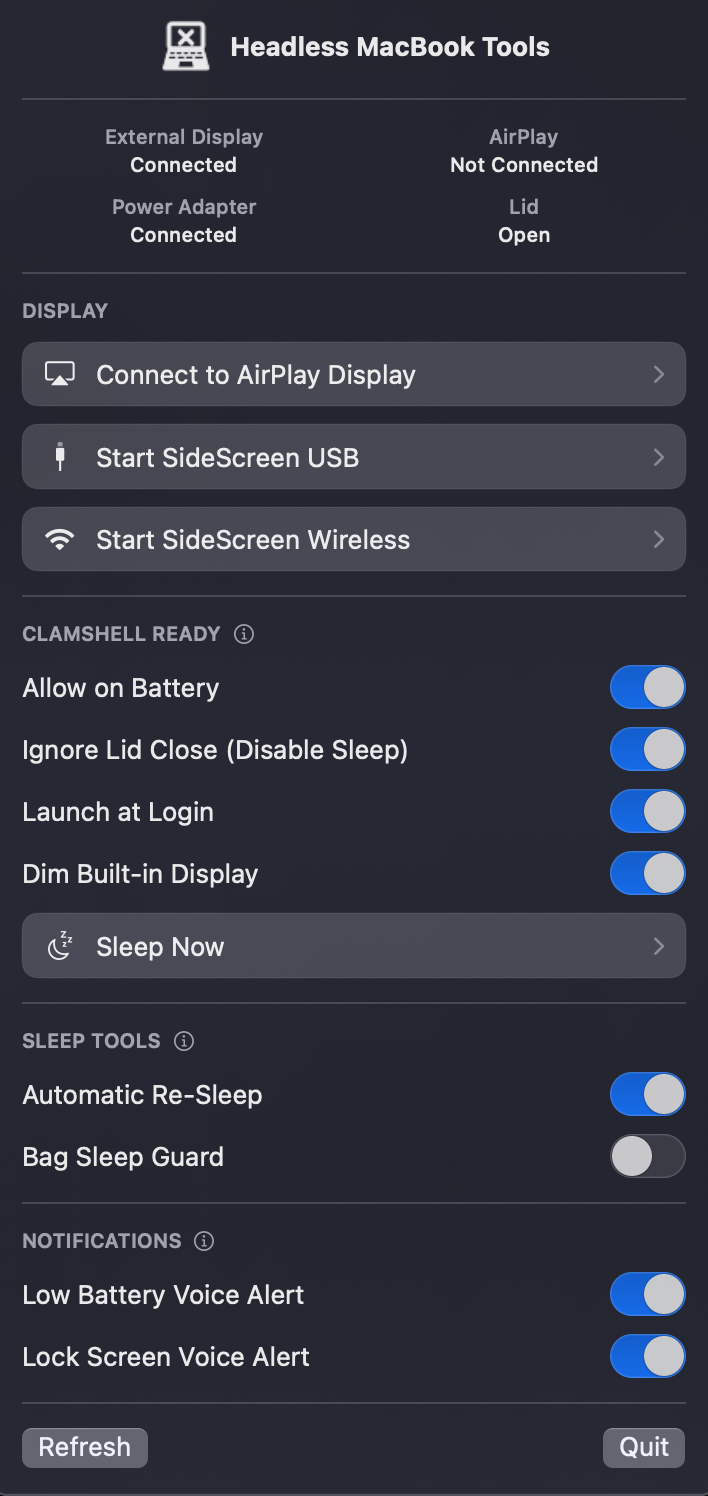
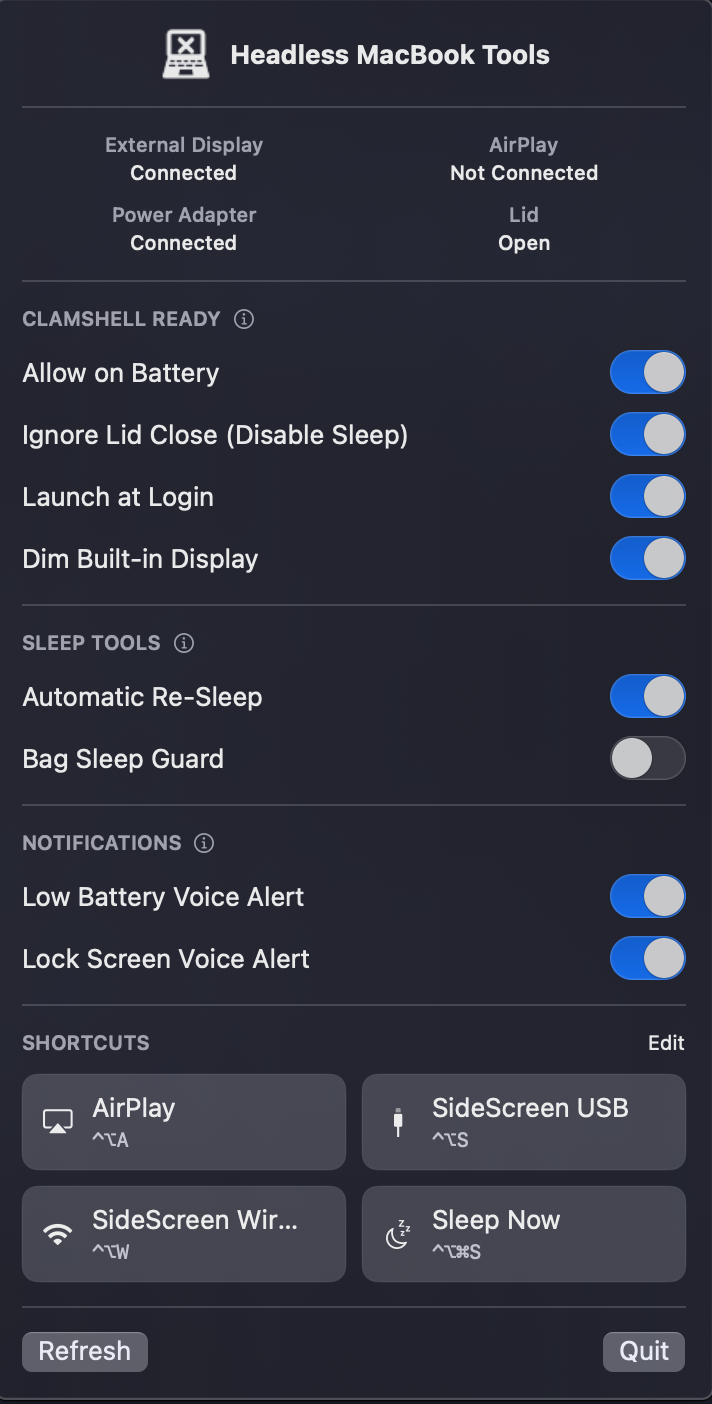
chore: rename app to Headless MacOS Tools

diff --git a/README.md b/README.md
@@ -1,11 +1,11 @@
-# Headless MacBook Tools
+# Headless MacOS Tools
 
 A menu-bar-only macOS utility that collects the headless MacBook workflows in one native SwiftUI app.
 
 ## Preview
 
 <p align="center">
-  <img src="Assets/screenshot.png" alt="Headless MacBook Tools menu" width="354">
+  <img src="Assets/screenshot.png" alt="Headless MacOS Tools menu" width="354">
 </p>
 
 ## Features
@@ -15,7 +15,7 @@ A menu-bar-only macOS utility that collects the headless MacBook workflows in on
 - AirPlay display selection
 - SideScreen USB and wireless launch actions
 - Automatic re-sleep and bag-wake protection
-- Low-battery and lock-screen voice alerts
+- Low-battery and lock-screen voice alerts, plus a login, wake, and unlock sound
 - App Intents for AirPlay and SideScreen actions
 - URL actions: `headlesstools://airplay`, `headlesstools://sidescreen-usb`, and `headlesstools://sidescreen-wireless`
 
@@ -34,7 +34,7 @@ Enabled background tools install their runtime copies under:
 ~/Library/Application Support/Headless MacBook Tools/Agents
 ```
 
-Their source remains in this repository's `Tools/` directory.
+The legacy support-directory name is kept to preserve existing background-tool installations. Their source remains in this repository's `Tools/` directory.
 
 ## Build and run
 
@@ -45,13 +45,22 @@ Requirements: macOS 14+, Apple Silicon, and the Swift toolchain included with th
 ./script/build_and_run.sh --verify
 ```
 
-The staged application is written to `dist/HeadlessMacBookTools.app` and ad-hoc signed.
+The staged application is written to `dist/Headless MacOS Tools.app` and ad-hoc signed.
 
 ## Shortcuts and keyboard shortcuts
 
 The app exposes `Run Headless Tool` through App Intents. Use the Shortcuts app to select the action and assign a keyboard shortcut from the shortcut's Details panel.
 
 App Intents can provide actions and preconfigured App Shortcuts, but macOS keeps the actual keyboard combination as a user-owned Shortcuts preference. The app does not modify that preference programmatically.
+
+Headless MacOS Tools also provides native global keyboard shortcuts that do not depend on the Shortcuts app:
+
+- `Control + Option + A`: Start Auto AirPlay
+- `Control + Option + S`: SideScreen USB
+- `Control + Option + W`: SideScreen Wireless
+- `Control + Option + Command + S`: Sleep Now
+
+The `SHORTCUTS` section runs each action directly. Click `Edit` to record different combinations; changes are stored in the app's preferences. If an existing macOS service or Shortcuts workflow already owns a combination, the app shows a conflict and leaves that global shortcut inactive until a free combination is selected.
 
 ## Permissions
 

diff --git a/Tools/Auto-Airplay/README.md b/Tools/Auto-Airplay/README.md
@@ -1,18 +1,18 @@
 # Auto-Airplay
 
-The AirPlay action used by Headless MacBook Tools.
+The AirPlay action used by Headless MacOS Tools.
 
 It discovers receivers from the macOS Screen Mirroring interface, writes the list to `~/.airplay_devices`, reads receiver names aloud, and accepts a numeric selection in Terminal. The selected receiver is activated through System Events UI automation.
 
 ## Requirements
 
 - An available AirPlay or Screen Mirroring receiver
-- Accessibility and Automation access for Headless MacBook Tools or the Terminal process it opens
+- Accessibility and Automation access for Headless MacOS Tools or the Terminal process it opens
 - macOS system tools including `osascript`, `say`, and `afplay`
 
 ## Entry point
 
-Headless MacBook Tools runs:
+Headless MacOS Tools runs:
 
 ```zsh
 ./run-airplay.sh
@@ -25,4 +25,4 @@ Useful diagnostics:
 ./run-airplay.sh --beep-only
 ```
 
-This directory is bundled under `Contents/Resources/Tools/Auto-Airplay`. It is not a standalone app and should not be duplicated beside Headless MacBook Tools.
+This directory is bundled under `Contents/Resources/Tools/Auto-Airplay`. It is not a standalone app and should not be duplicated beside Headless MacOS Tools.

diff --git a/Tools/Auto-SideScreen-USB/README.md b/Tools/Auto-SideScreen-USB/README.md
@@ -1,6 +1,6 @@
 # SideScreen Launch Tools
 
-USB and wireless SideScreen launch actions used by Headless MacBook Tools.
+USB and wireless SideScreen launch actions used by Headless MacOS Tools.
 
 The preferred path opens SideScreen through its URL scheme. The fallback opens `/Applications/SideScreen.app` and uses UI automation to select USB or wireless mode and press Start.
 
@@ -17,4 +17,4 @@ The preferred path opens SideScreen through its URL scheme. The fallback opens `
 ./SideScreen-wireless.sh
 ```
 
-Headless MacBook Tools invokes these scripts directly from its application bundle. App Intents are the preferred shortcut integration.
+Headless MacOS Tools invokes these scripts directly from its application bundle. App Intents are the preferred shortcut integration.

diff --git a/Tools/Battery Voice Alert/README.md b/Tools/Battery Voice Alert/README.md
@@ -1,6 +1,6 @@
 # Battery Voice Alert
 
-A LaunchAgent managed by Headless MacBook Tools. It checks battery state once per minute and speaks selected low-charge warnings while the Mac is discharging.
+A LaunchAgent managed by Headless MacOS Tools. It checks battery state once per minute and speaks selected low-charge warnings while the Mac is discharging.
 
 Warning levels are 24, 20, 15, 10, 9, 8, 6, 4, 2, and 1 percent. Connecting power resets the last warning.
 
@@ -17,4 +17,4 @@ Manual diagnostics:
 ./BatteryVoiceAlert.command check
 ```
 
-Normal installation and removal should be performed with the Low Battery Voice Alert switch in Headless MacBook Tools.
+Normal installation and removal should be performed with the Low Battery Voice Alert switch in Headless MacOS Tools.

diff --git a/Tools/bag-sleep-guard/README.md b/Tools/bag-sleep-guard/README.md
@@ -1,6 +1,6 @@
 # Bag Sleep Guard
 
-A LaunchAgent managed by Headless MacBook Tools. If the Mac wakes while locked and running on battery, it returns the Mac to sleep when no recent keyboard or trackpad input is detected.
+A LaunchAgent managed by Headless MacOS Tools. If the Mac wakes while locked and running on battery, it returns the Mac to sleep when no recent keyboard or trackpad input is detected.
 
 It does not run after the user has unlocked the session.
 
@@ -16,4 +16,4 @@ Temporary opt-out:
 touch ~/.bag-sleep-guard-off
 ```
 
-Remove the marker to enable the guard again. Normal installation and removal should be performed with the Bag Sleep Guard switch in Headless MacBook Tools.
+Remove the marker to enable the guard again. Normal installation and removal should be performed with the Bag Sleep Guard switch in Headless MacOS Tools.

diff --git a/Tools/headless-auto-resleep/README.md b/Tools/headless-auto-resleep/README.md
@@ -1,6 +1,6 @@
 # Headless Auto Re-Sleep
 
-A LaunchAgent managed by Headless MacBook Tools. After wake it checks for a physical external display, an unlocked session, and recent keyboard or trackpad input. If none is present, it announces auto re-sleep and asks macOS to sleep again.
+A LaunchAgent managed by Headless MacOS Tools. After wake it checks for a physical external display, an unlocked session, and recent keyboard or trackpad input. If none is present, it announces auto re-sleep and asks macOS to sleep again.
 
 Runtime files are installed under:
 
@@ -14,4 +14,4 @@ Log:
 tail -f ~/Library/Logs/headless-auto-resleep.log
 ```
 
-Normal installation and removal should be performed with the Automatic Re-Sleep switch in Headless MacBook Tools.
+Normal installation and removal should be performed with the Automatic Re-Sleep switch in Headless MacOS Tools.

diff --git a/Tools/lock-screen-sayer/README.md b/Tools/lock-screen-sayer/README.md
@@ -1,6 +1,6 @@
 # Lock Screen Voice Alert
 
-A LaunchAgent managed by Headless MacBook Tools. It says `Lock Screen` when the macOS session becomes locked.
+A LaunchAgent managed by Headless MacOS Tools. It says `Lock Screen` when the macOS session becomes locked.
 
 Runtime files are installed under:
 
@@ -8,4 +8,4 @@ Runtime files are installed under:
 ~/Library/Application Support/Headless MacBook Tools/Agents/lock-screen-sayer
 ```
 
-Normal installation and removal should be performed with the Lock Screen Voice Alert switch in Headless MacBook Tools.
+Normal installation and removal should be performed with the Lock Screen Voice Alert switch in Headless MacOS Tools.